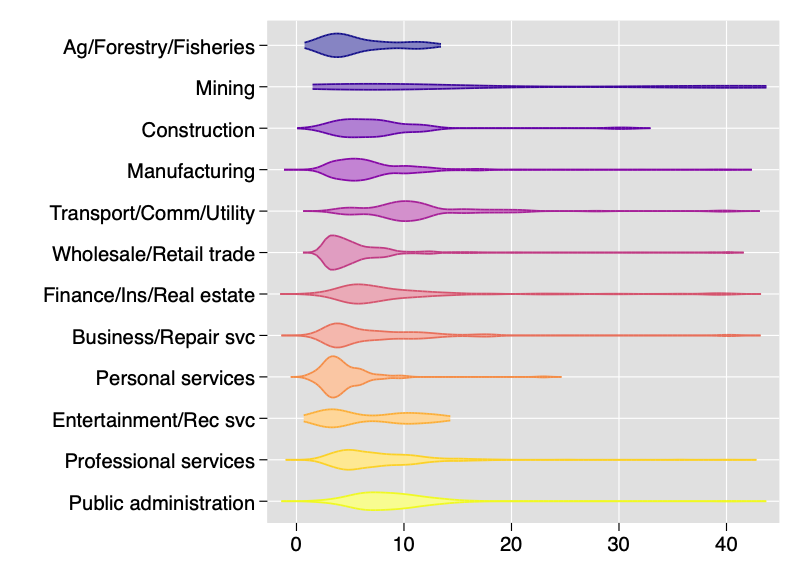
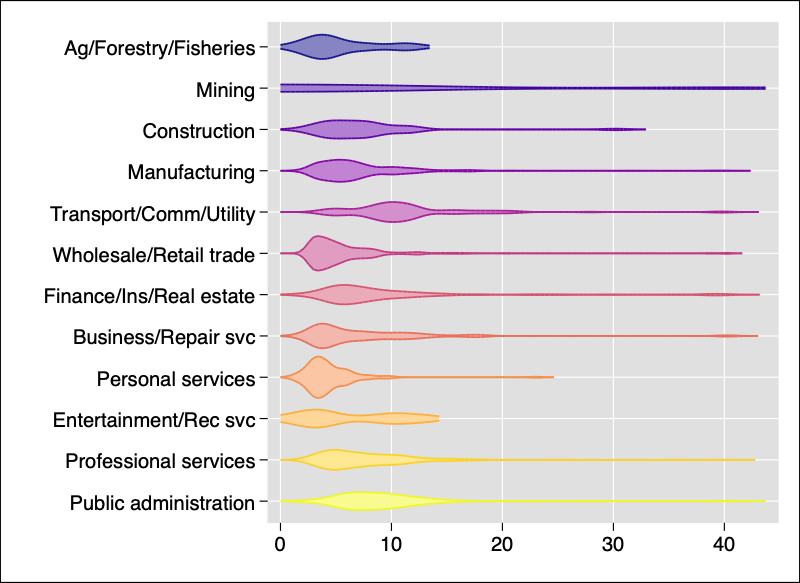
latest version

diff --git a/README.md b/README.md
@@ -61,7 +61,7 @@ Some examples (use of the `grytsle` package is made; type `ssc install grstyle` 
 ![example 5](/images/5.png)
 
     separate wage, by(industry) veryshortlabel
-    violinplot wage?*, color(plasma) fill nomedian nobox nowhiskers
+    violinplot wage?*, pdf(ll(0)) color(plasma) fill nomedian nobox nowhiskers
     drop wage?
 
 ![example 6](/images/6.png)
